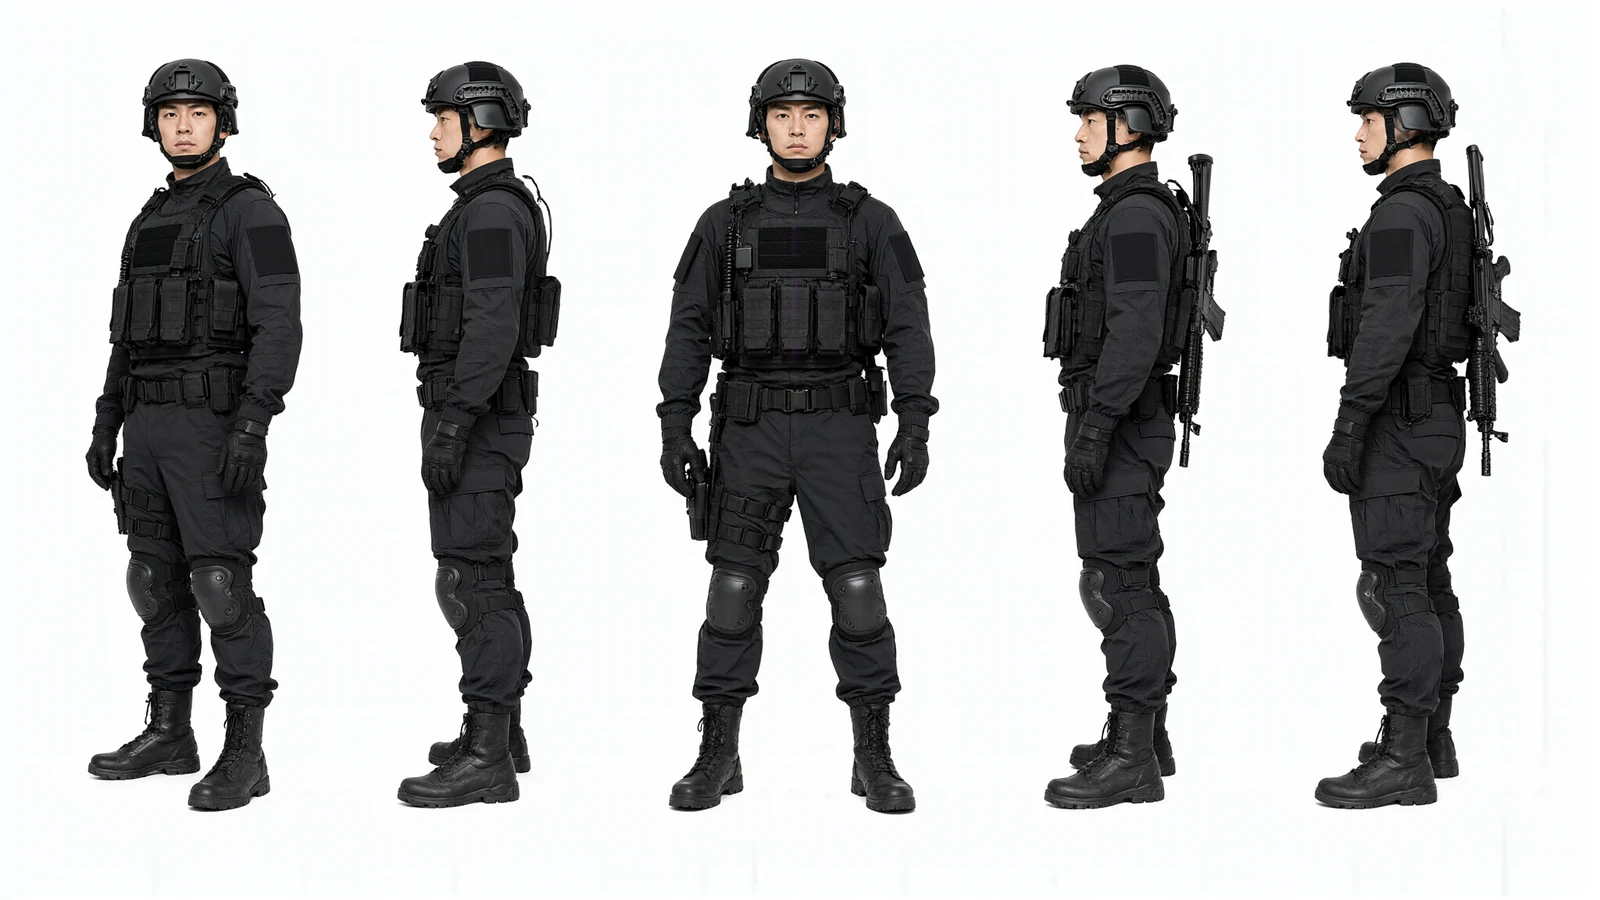
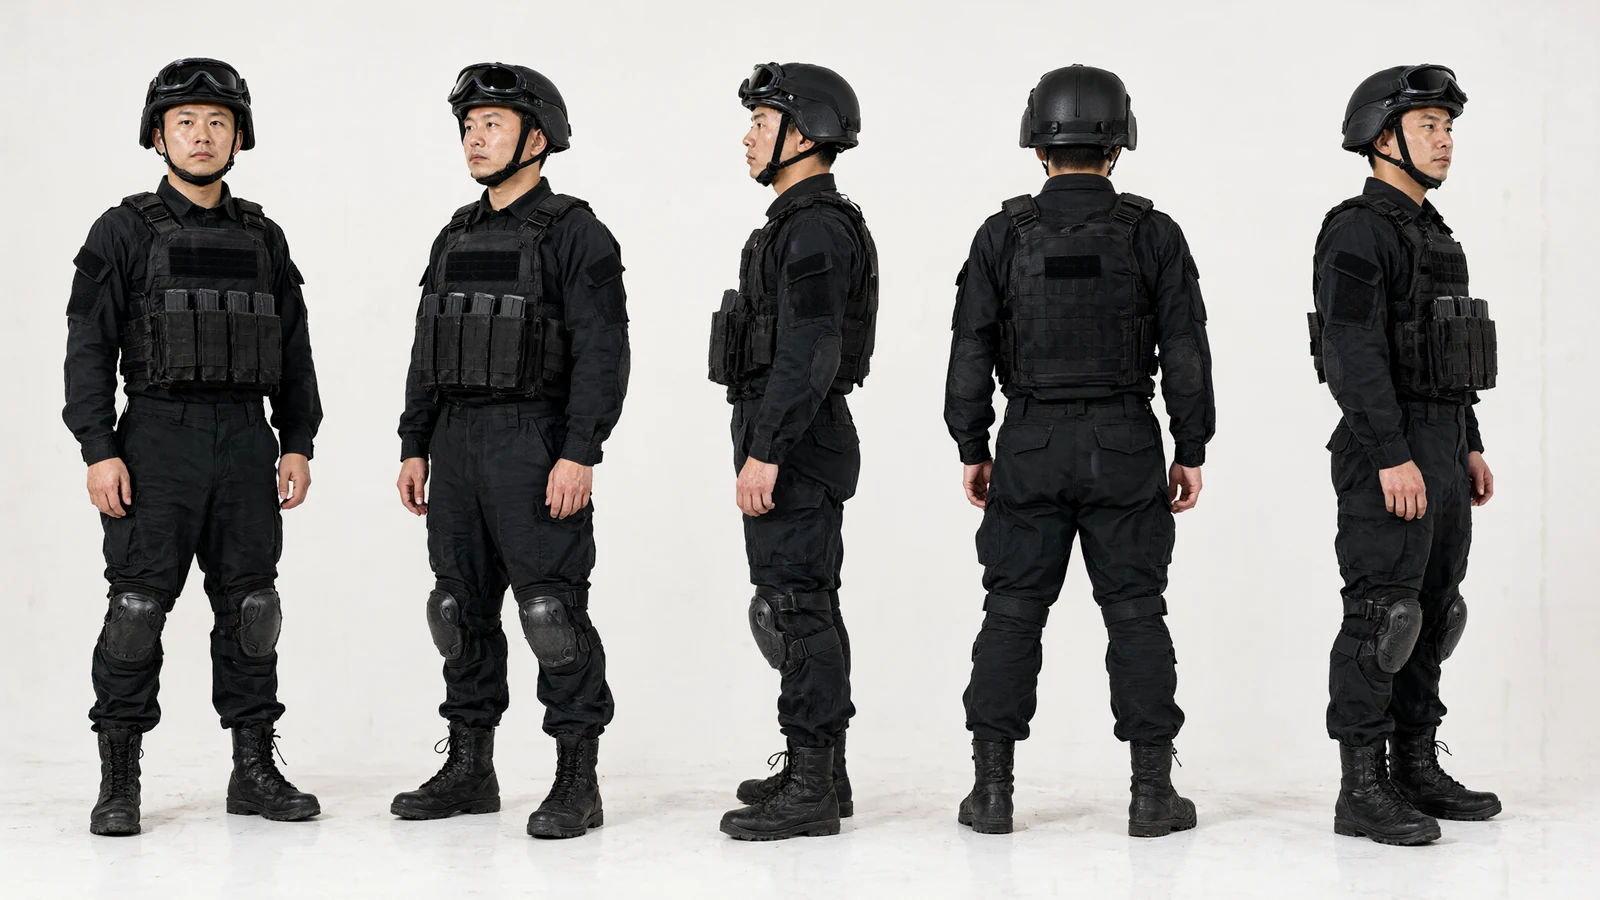
docs(v1.0.4): 多角度一致性图重跑为真人实拍版 —— 原图跨角度装备不一致（枪只出现在两个角度、护目镜时有时无），新图五人同装备同比例，说明文字改为可逐项核对的说法

diff --git a/README.md b/README.md
@@ -17,7 +17,7 @@
 | **角色多视图 · 参考图模式** | **多角度细节一致性** |
 |:---:|:---:|
 | ![角色四视图](docs/examples/character-sheet-01.webp) | ![五视图](docs/examples/character-sheet-02.webp) |
-| 一张参考图 → 同角色正/侧/背多视图，用于漫剧、短剧的角色设定 | 服装、装备、配饰在不同角度保持一致 |
+| 一张参考图 → 同角色正/侧/背多视图，用于漫剧、短剧的角色设定 | 同一套装备跨五个角度：护目镜翻起角度、胸前四个弹匣包、护膝轮廓、靴型逐一对应 |
 
 | **电影感场景 · 文生图** | **四格分镜 · 四镜同一角色** |
 |:---:|:---:|
